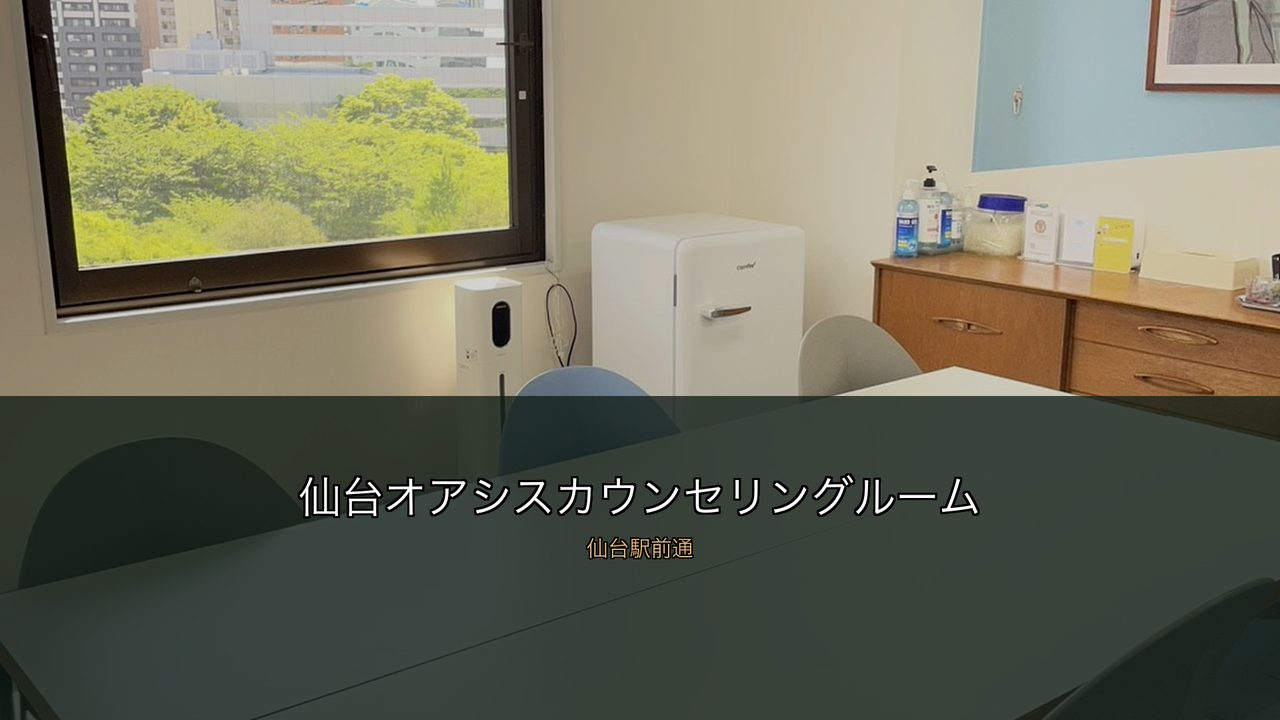
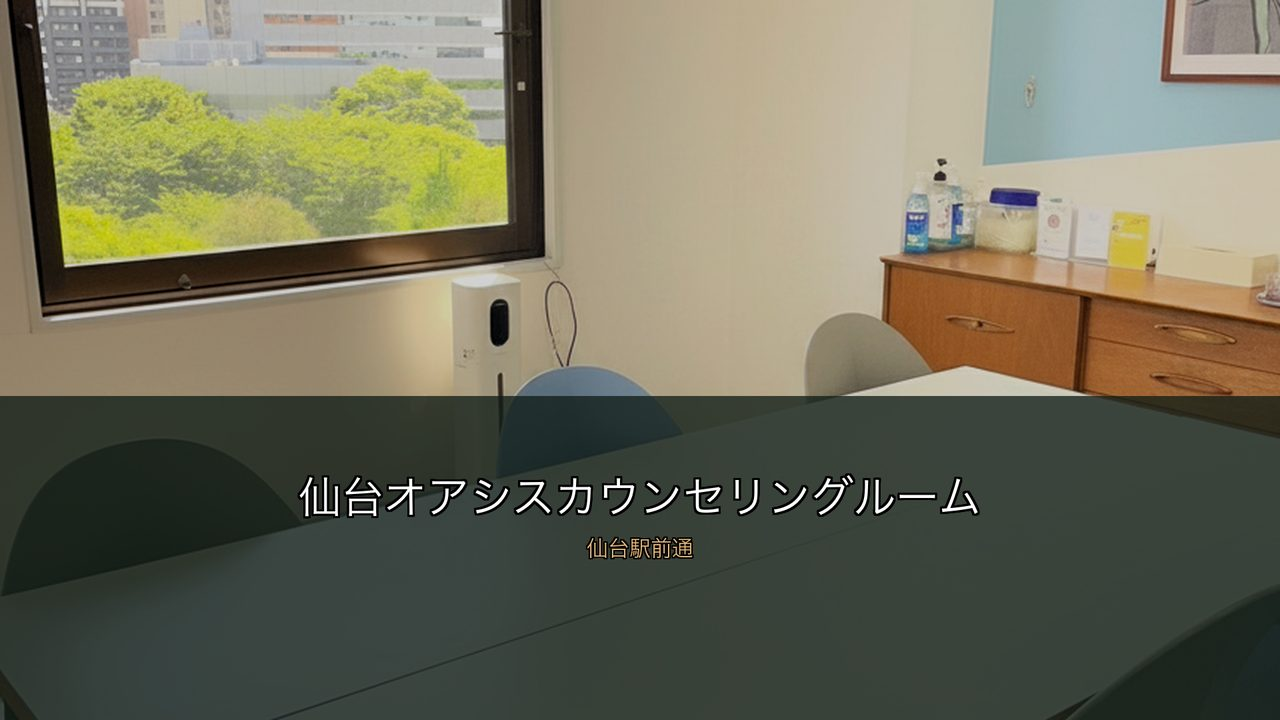
仙台オアシス v5.24: 家山様5/21追加指示反映（冷蔵庫除去・カウンセラー結んだ髪・端っこ位置）

diff --git a/sendai-oasis-storyboard.html b/sendai-oasis-storyboard.html
@@ -123,7 +123,7 @@
 <div class="wrap">
 
 <header class="hero">
-  <div class="eyebrow">RUNBIRD AI VIDEO — STORYBOARD v5.22（SCENE 05をビル銘板→実写ルーム＋「仙台駅前通」テキストに差替・許可不要案）</div>
+  <div class="eyebrow">RUNBIRD AI VIDEO — STORYBOARD v5.24（家山様5/21追加返信：冷蔵庫を消す＋カウンセラーを結んだ髪・端っこに戻す）</div>
   <h1>仙台オアシスカウンセリングルーム</h1>
   <div class="sub">代表：家山 めぐみ（臨床心理士・公認心理師） ／ 業種：女性専用 心理カウンセリング ／ 動画尺：50秒（YouTube広告）</div>
   <div class="badges">
@@ -230,9 +230,9 @@
   <div class="scene">
     <img src="sendai-oasis-images/s06_counselor_shoulder_down.jpg" alt="s06">
     <div class="body">
-      <div class="sec">SCENE 06 ／ 28–37s ／ USP① 専門的な知識に裏打ちされた理解（カウンセラー＝髪を下ろした後ろ姿）</div>
+      <div class="sec">SCENE 06 ／ 28–37s ／ USP① 専門的な知識に裏打ちされた理解</div>
       <div class="telop">専門的な知識に裏打ちされた、丁寧な理解</div>
-      <div class="tags"><span>一対一構図</span><span>来談者＝顔OK</span><span>カウンセラー＝髪を下ろした後ろ姿</span><span>家山様ご指示反映</span></div>
+      <div class="tags"><span>🎞実写ルーム参照（冷蔵庫なし）</span><span>来談者＝40代・顔OK</span><span>カウンセラー＝結んだ髪・端っこ</span><span>家山様5/21追加指示反映</span></div>
       <div class="narr">臨床心理士・公認心理師・精神保健福祉士の資格と経験を持つカウンセラーが、専門的な知識に裏打ちされた理解で、お気持ちを丁寧にお聴きします。</div>
     </div>
   </div>
